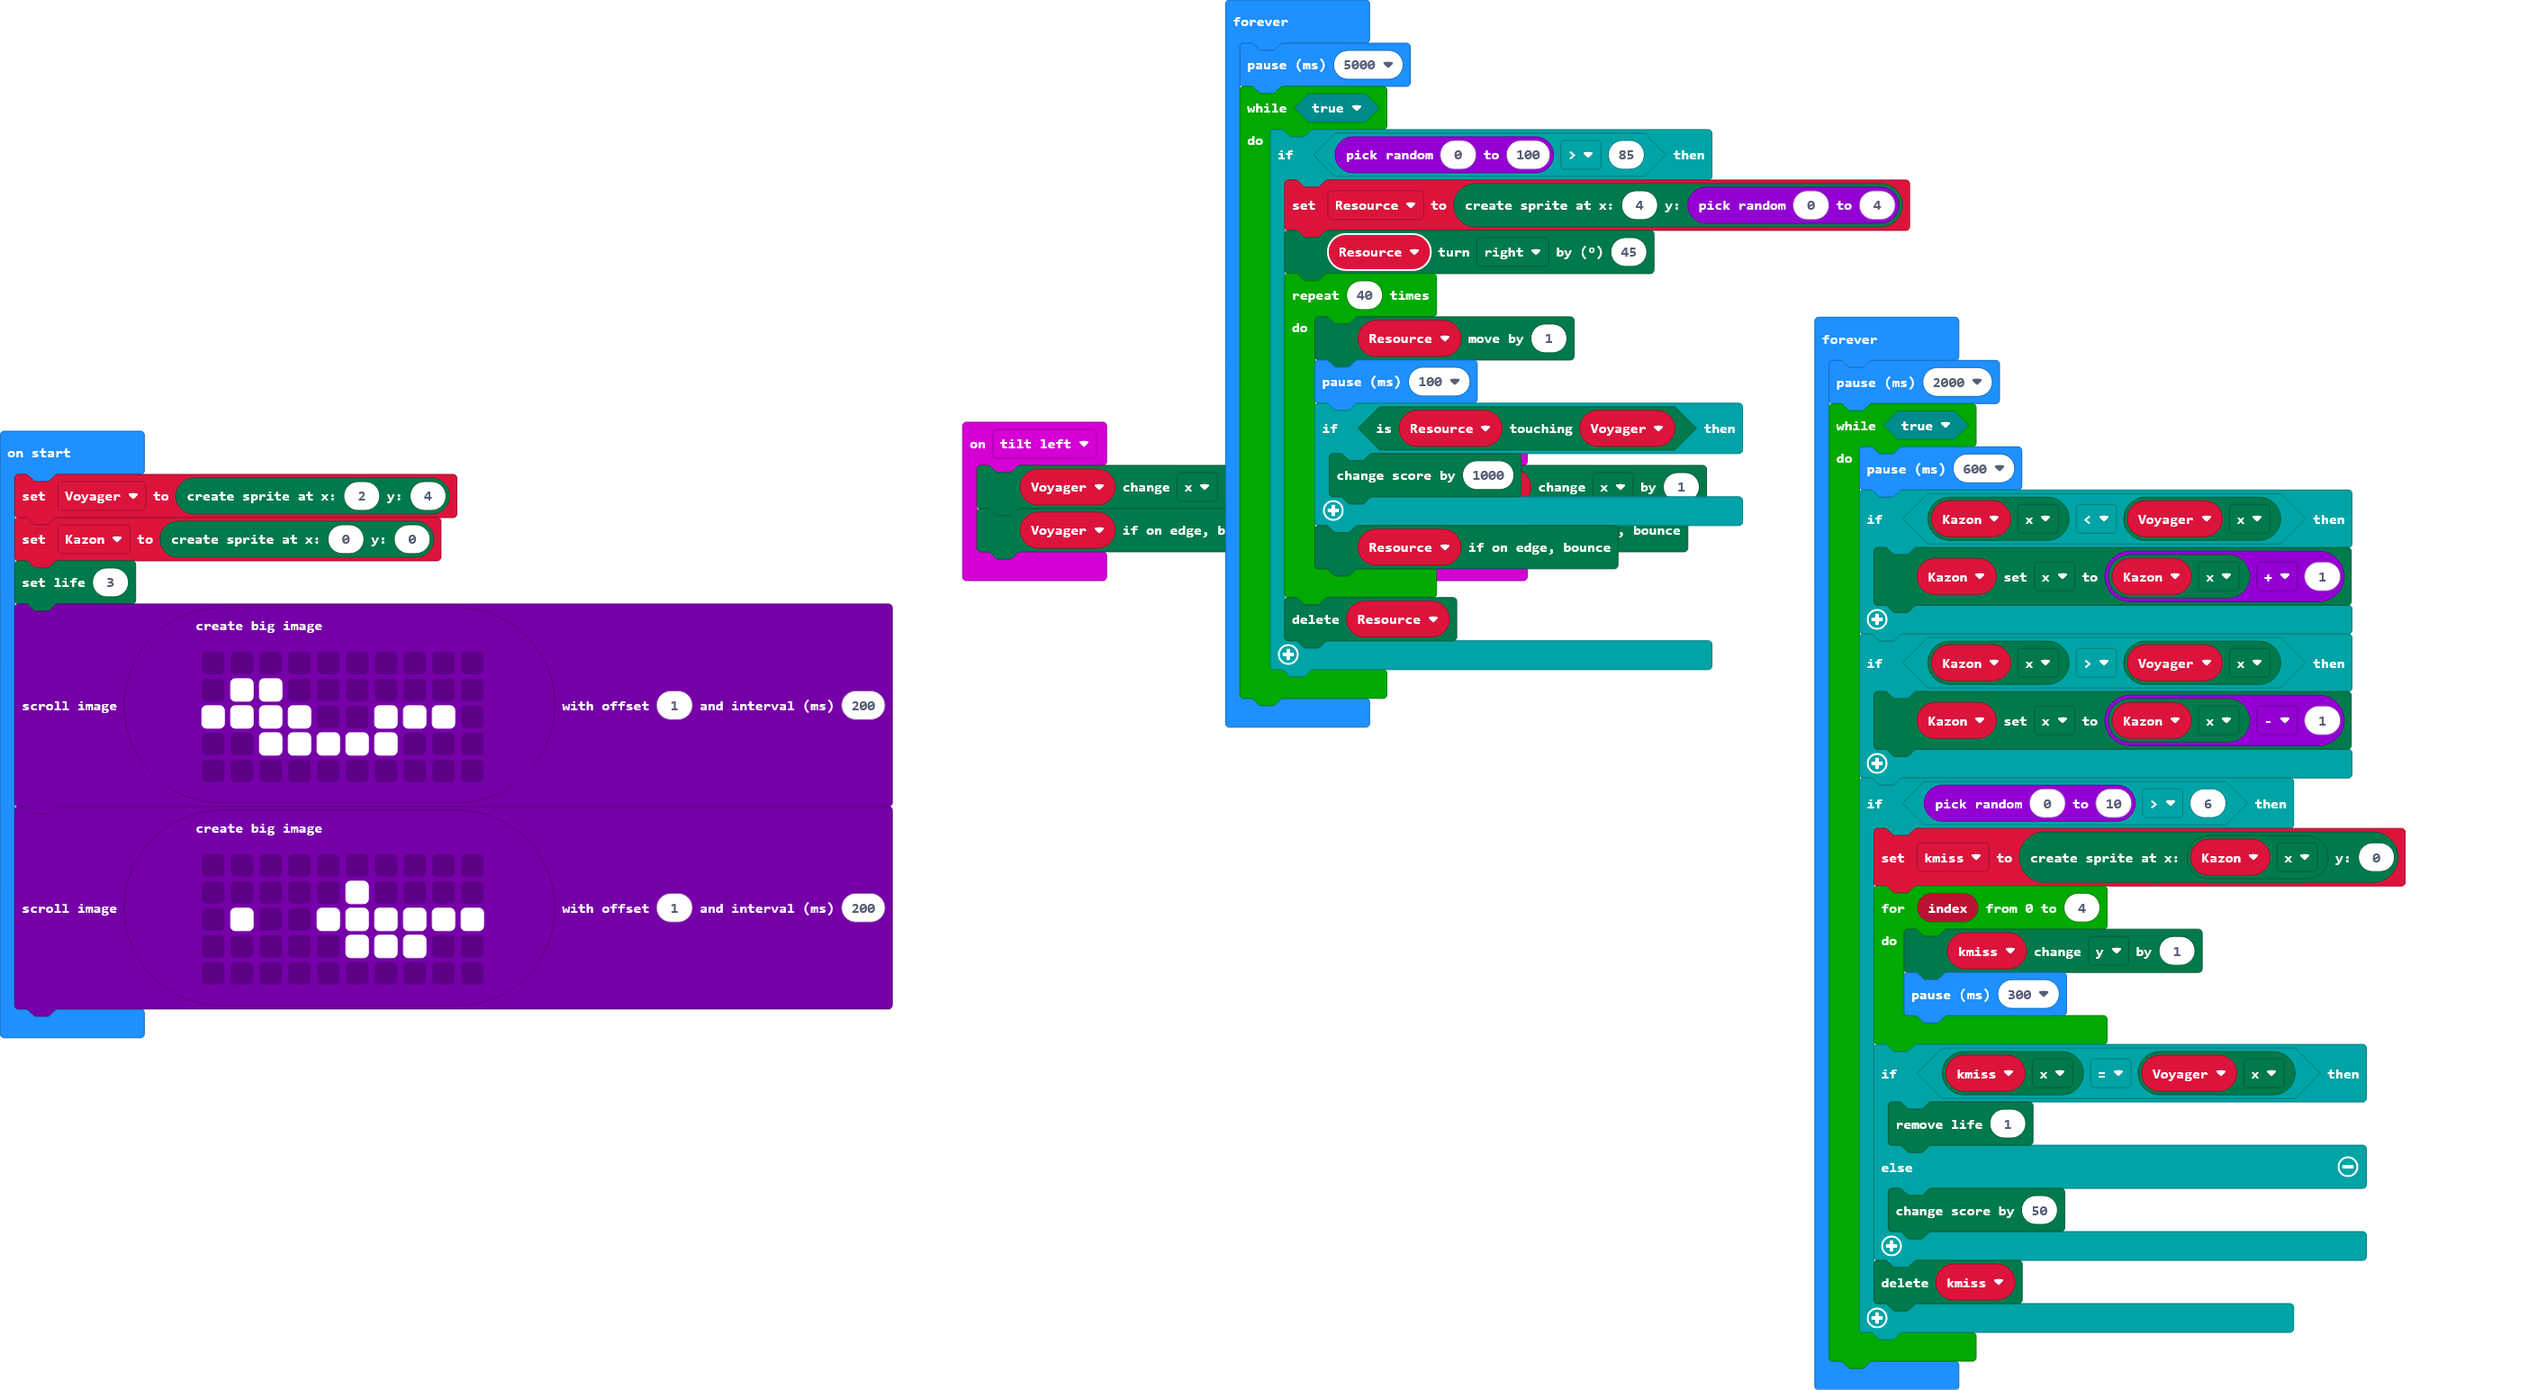
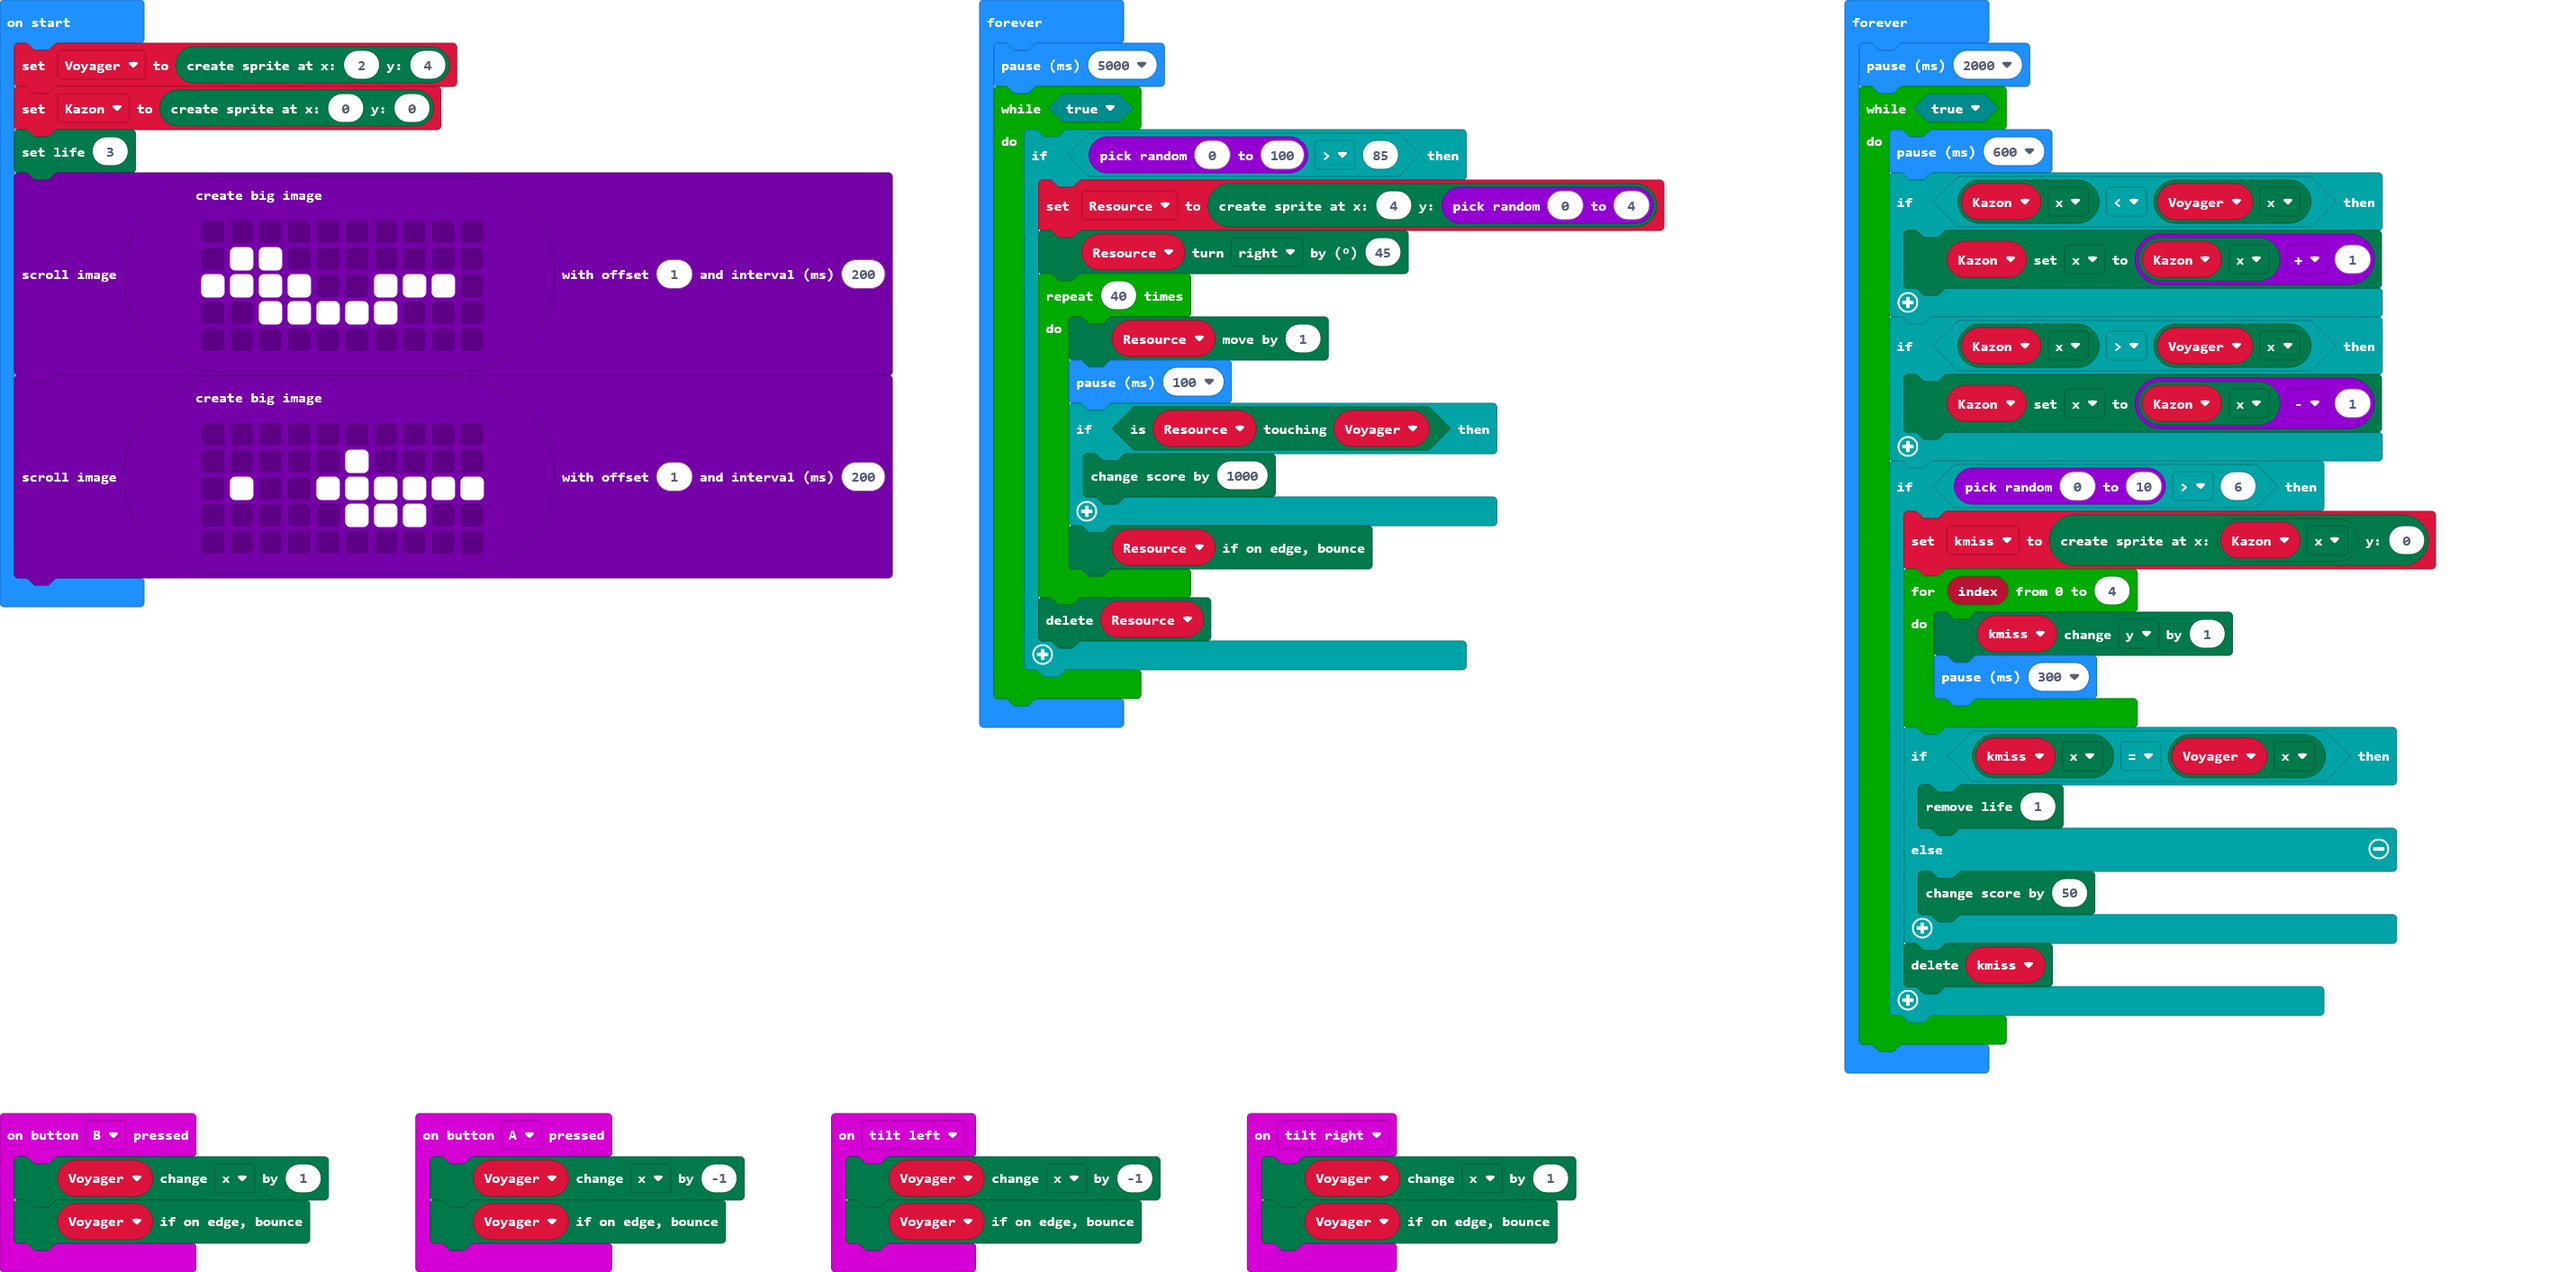
Update main.blocks, main.ts

diff --git a/main.ts b/main.ts
@@ -1,5 +1,13 @@
+input.onButtonPressed(Button.A, function () {
+    Voyager.change(LedSpriteProperty.X, -1)
+    Voyager.ifOnEdgeBounce()
+})
 input.onGesture(Gesture.TiltLeft, function () {
     Voyager.change(LedSpriteProperty.X, -1)
+    Voyager.ifOnEdgeBounce()
+})
+input.onButtonPressed(Button.B, function () {
+    Voyager.change(LedSpriteProperty.X, 1)
     Voyager.ifOnEdgeBounce()
 })
 input.onGesture(Gesture.TiltRight, function () {
